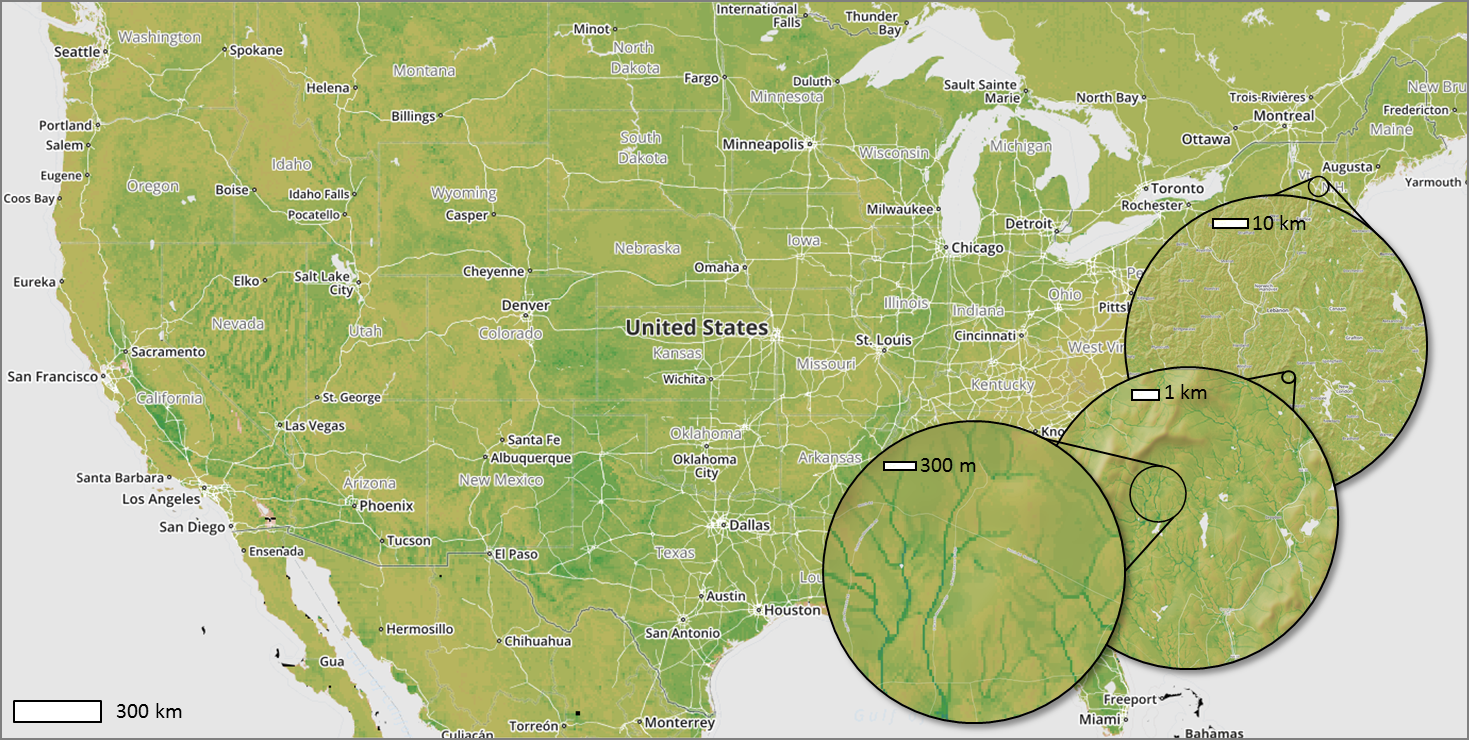
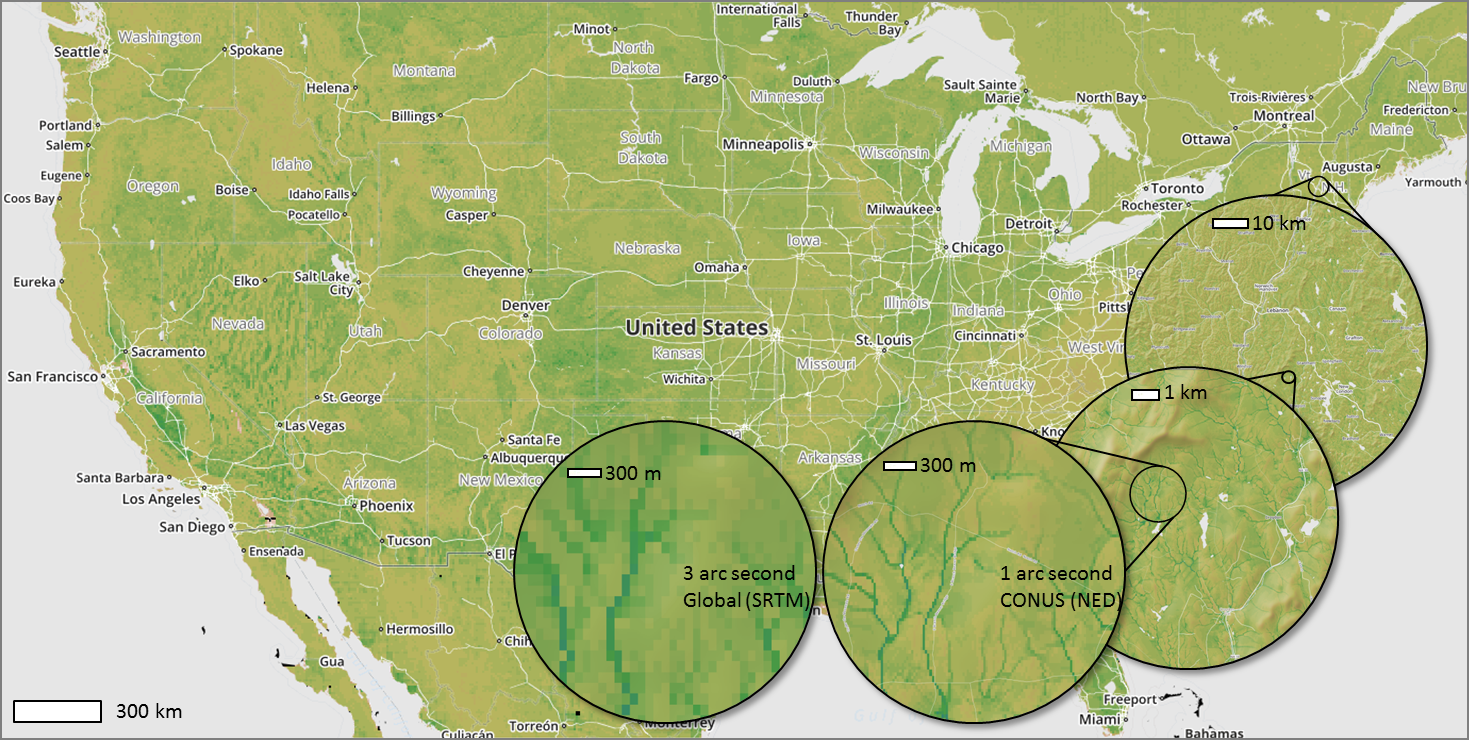
Adding global TWI result

Changed region(s): [[0.337, 0.5595, 0.582, 0.9946], [0.6739, 0.7459, 0.7658, 0.8392]]

diff --git a/papers/mattheus_ueckermann/mattheus_ueckermann.rst b/papers/mattheus_ueckermann/mattheus_ueckermann.rst
@@ -231,7 +231,7 @@ Finally, to verify that pyDEM is efficient, robust, and accurate for real data-s
    :scale: 70%
    :figclass: w
    
-   To verify pyDEM's performance over a large data set, TWI was calculated for the 1 arc-second resolution US National Elevation Database (shown with hill-shading overlay). :label:`conus`
+   To verify pyDEM's performance over a large data set, TWI was calculated for the 1 arc-second resolution US National Elevation Database (shown with hill-shading overlay) and 3 arc-second SRTM globally (shown in inset). :label:`conus`
 
 --------   
    
